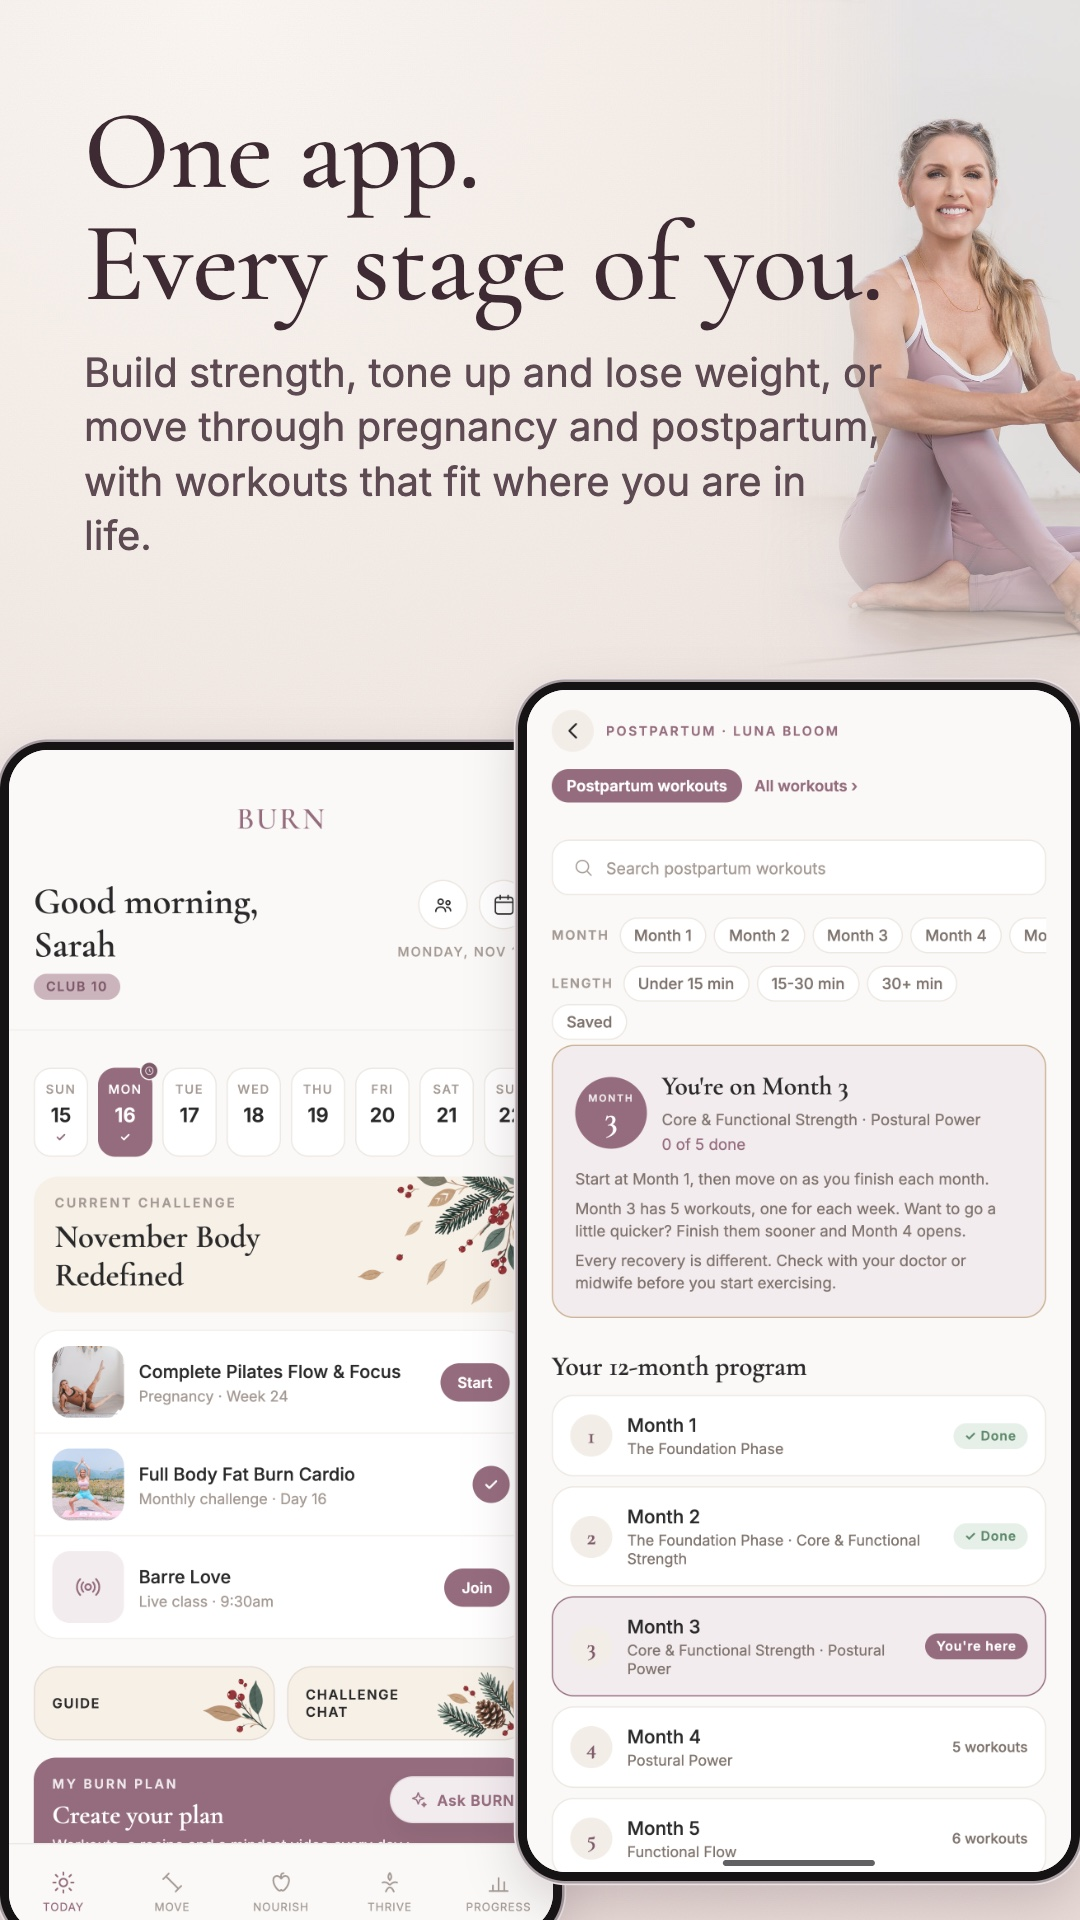
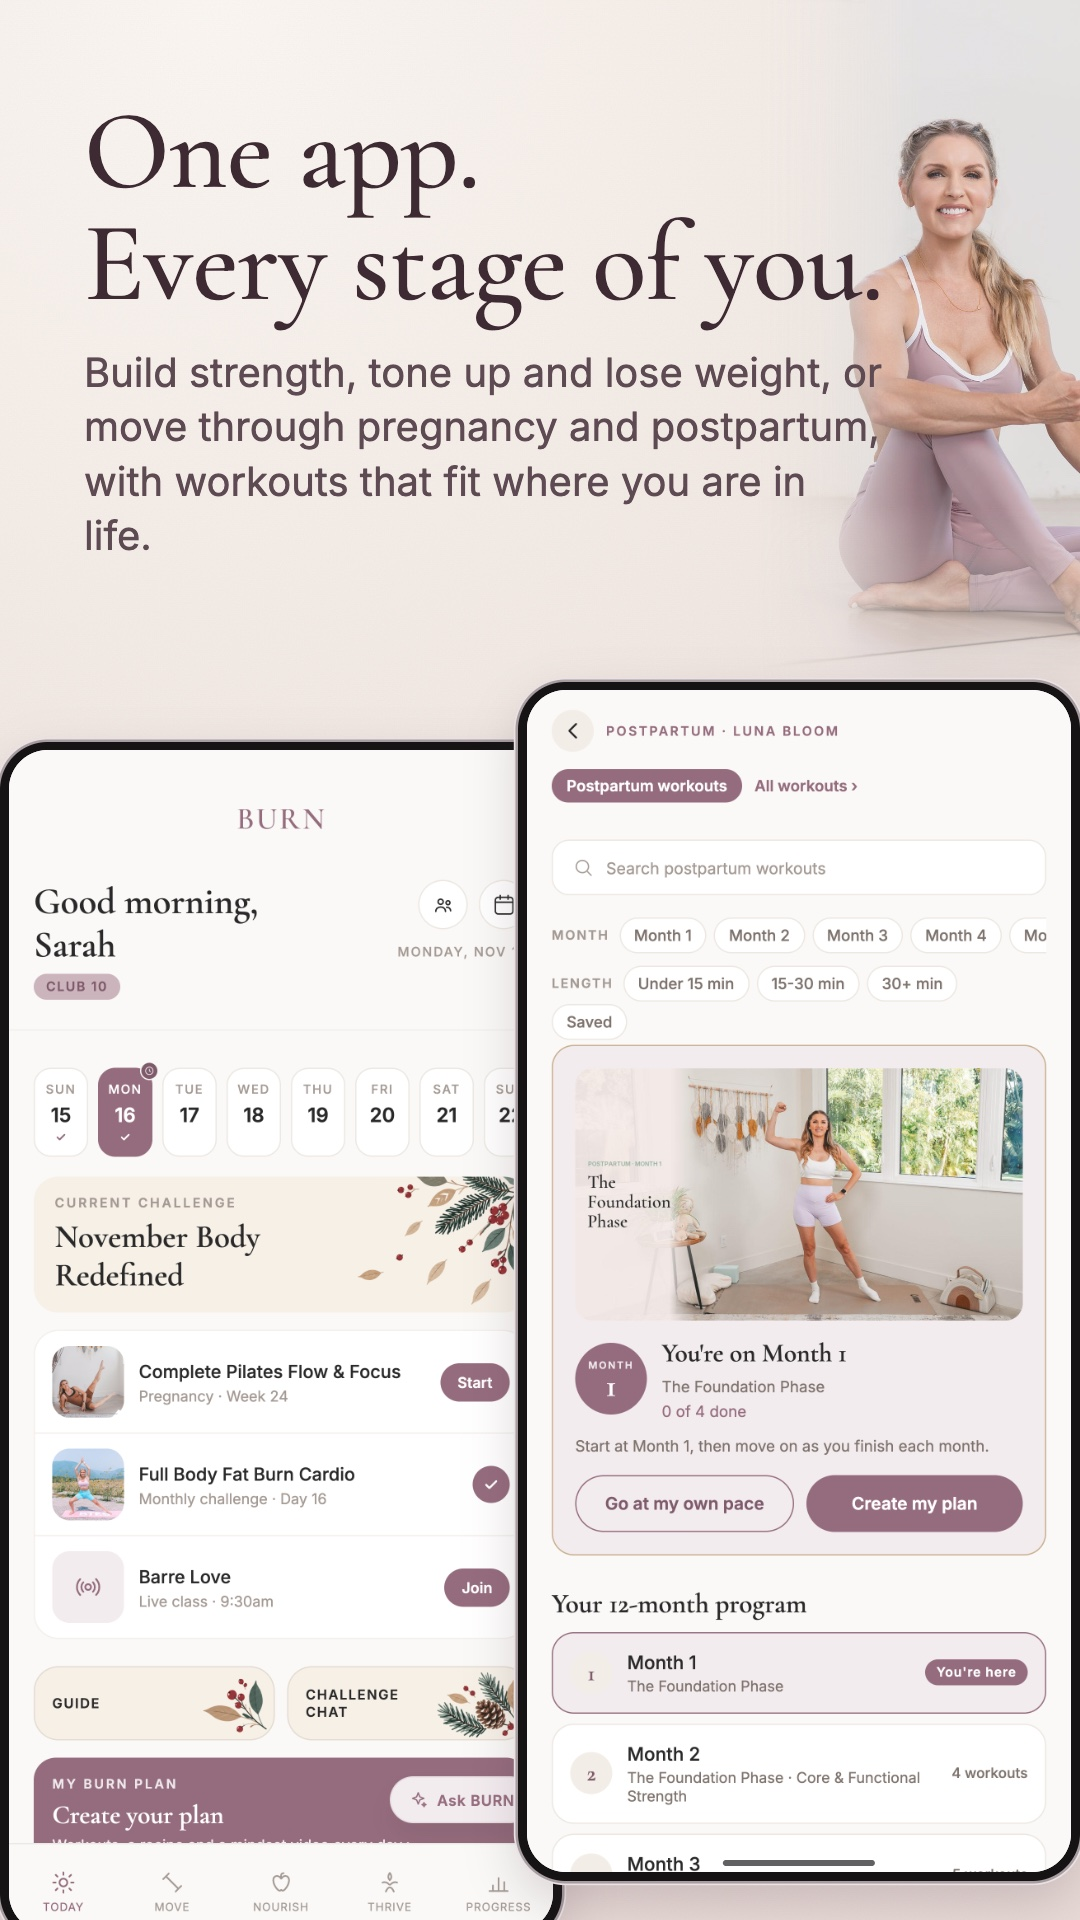
BRN-352 v15 update: slide 3 postpartum = Preview 431 Month 1 covers; her v14 notes (plan back in front, smaller class cards + top photo, Club 10 top-right, dietary needs line, smaller Ask BURN card) slide 3 postpartum = Preview 431 Month 1 covers

Changed region(s): [[0.5194, 0.5312, 0.9472, 1.0], [0.8556, 0.8438, 0.9778, 0.9688], [0.7944, 0.9062, 0.8556, 0.9375]]

diff --git a/play-listing/index.html b/play-listing/index.html
@@ -223,7 +223,7 @@ https://burn-app-legal.netlify.app/support.html</div>
 <h2>At store size</h2><div style="display:flex;gap:6px;overflow-x:auto"><img src="v15/play/01-hero.jpg?v=15" style="height:190px;border-radius:8px;box-shadow:0 1px 4px rgba(0,0,0,.15)" alt=""><img src="v15/play/02-challenge.jpg?v=15" style="height:190px;border-radius:8px;box-shadow:0 1px 4px rgba(0,0,0,.15)" alt=""><img src="v15/play/03-stages.jpg?v=15" style="height:190px;border-radius:8px;box-shadow:0 1px 4px rgba(0,0,0,.15)" alt=""><img src="v15/play/04-plan.jpg?v=15" style="height:190px;border-radius:8px;box-shadow:0 1px 4px rgba(0,0,0,.15)" alt=""><img src="v15/play/05-live.jpg?v=15" style="height:190px;border-radius:8px;box-shadow:0 1px 4px rgba(0,0,0,.15)" alt=""><img src="v15/play/06-nourish.jpg?v=15" style="height:190px;border-radius:8px;box-shadow:0 1px 4px rgba(0,0,0,.15)" alt=""><img src="v15/play/07-thrive.jpg?v=15" style="height:190px;border-radius:8px;box-shadow:0 1px 4px rgba(0,0,0,.15)" alt=""><img src="v15/play/08-progress.jpg?v=15" style="height:190px;border-radius:8px;box-shadow:0 1px 4px rgba(0,0,0,.15)" alt=""></div><p class="note">Google Play listing: the carousel, about 190 px tall on a phone.</p><div style="display:flex;gap:6px;align-items:flex-start;flex-wrap:wrap"><img src="v15/iphone/01-hero.jpg?v=15" style="width:104px;border-radius:10px;box-shadow:0 1px 4px rgba(0,0,0,.15)" alt=""><img src="v15/iphone/02-challenge.jpg?v=15" style="width:104px;border-radius:10px;box-shadow:0 1px 4px rgba(0,0,0,.15)" alt=""><img src="v15/iphone/03-stages.jpg?v=15" style="width:104px;border-radius:10px;box-shadow:0 1px 4px rgba(0,0,0,.15)" alt=""></div><p class="note">App Store search result: the first three, about 104 px wide.</p>
 
 <h2>Your v14 notes, item by item</h2>
-<table><tr><th>You said</th><th>Now</th></tr><tr><td>Your fitness, your way: put back the plan in front</td><td>✅ Your finished plan (&quot;Your Tone Plan&quot;, week by week) is back in front. The Library is behind and the photo of you at the top stays.</td></tr><tr><td>Let&#x27;s work out together: smaller &quot;24 people&quot; card + what it&#x27;s like in the class with the emojis + a top photo</td><td>✅ The &quot;24 people are working out with you&quot; card is smaller, and a second small card shows the live class with members&#x27; cheers and emojis. Your photo is at the top like the other slides.</td></tr><tr><td>Look what you did: Club 10 in the top-right corner</td><td>✅ The Club 10 badge card now sits in the top-right corner.</td></tr><tr><td>Nourish: a more professional filter line</td><td>✅ &quot;Find recipes that work for you, filter by your dietary needs and save your favourites.&quot; This matches your approved &quot;Recipes for every dietary need&quot;. The food tracking line and the açaí photo stay.</td></tr><tr><td>Ask BURN: the pop-up sits over the top</td><td>✅ Smaller and moved down, so the start screen shows.</td></tr><tr><td>Your people, your community</td><td>No change.</td></tr><tr><td>One app. Every stage of you: the new Month 1 postpartum covers</td><td>⏳ Agent 4&#x27;s covers are held, waiting for your final edits. The current postpartum screen stays until they ship.</td></tr></table>
+<table><tr><th>You said</th><th>Now</th></tr><tr><td>Your fitness, your way: put back the plan in front</td><td>✅ Your finished plan (&quot;Your Tone Plan&quot;, week by week) is back in front. The Library is behind and the photo of you at the top stays.</td></tr><tr><td>Let&#x27;s work out together: smaller &quot;24 people&quot; card + what it&#x27;s like in the class with the emojis + a top photo</td><td>✅ The &quot;24 people are working out with you&quot; card is smaller, and a second small card shows the live class with members&#x27; cheers and emojis. Your photo is at the top like the other slides.</td></tr><tr><td>Look what you did: Club 10 in the top-right corner</td><td>✅ The Club 10 badge card now sits in the top-right corner.</td></tr><tr><td>Nourish: a more professional filter line</td><td>✅ &quot;Find recipes that work for you, filter by your dietary needs and save your favourites.&quot; This matches your approved &quot;Recipes for every dietary need&quot;. The food tracking line and the açaí photo stay.</td></tr><tr><td>Ask BURN: the pop-up sits over the top</td><td>✅ Smaller and moved down, so the start screen shows.</td></tr><tr><td>Your people, your community</td><td>No change.</td></tr><tr><td>One app. Every stage of you: the new Month 1 postpartum covers</td><td>✅ Recaptured from Preview 431, which has your new Month 1 postpartum covers (your photo, The Foundation Phase).</td></tr></table>
 <h2>Your headlines doc, item by item</h2>
 <table><tr><th>#</th><th>Your doc</th><th></th><th>What I did</th></tr><tr><td>1</td><td>01 · BURN BY REBECCA LOUISE — &quot;Move. Nourish. Thrive. Through every stage of life.&quot;</td><td style="text-align:center">✅</td><td>Word for word. Apple + Google.</td></tr><tr><td>2</td><td>02 · A NEW CHALLENGE EVERY MONTH — &quot;Your daily workouts, a challenge guide and a calendar to keep you going. Just press play and show up for yourself.&quot;</td><td style="text-align:center">✅</td><td>Word for word. Apple + Google.</td></tr><tr><td>3</td><td>03 · ONE APP. EVERY STAGE OF YOU. — &quot;Build strength, move through pregnancy and follow your postpartum journey, with workouts that fit where you are in life.&quot;</td><td style="text-align:center">✅</td><td>Updated to your 29 Oct line (general fitness and goals). The postpartum screen is a placeholder until your new screenshot arrives.</td></tr><tr><td>4</td><td>04 · YOUR FITNESS. YOUR WAY. — &quot;Build your own plan around your goals and schedule. Choose your workouts, create playlists and train with your cycle.&quot;</td><td style="text-align:center">✅</td><td>Word for word. Your finished plan in front, the Library behind, and you exercising at the top.</td></tr><tr><td>5</td><td>05 · LET’S WORK OUT TOGETHER. — &quot;Book live classes, schedule your workouts and make time to move with me, wherever you are.&quot;</td><td style="text-align:center">✅</td><td>Word for word, plus your 29 Oct line &quot;You can also create challenges with your friends.&quot;</td></tr><tr><td>6</td><td>06 · NOURISH YOUR BODY. — &quot;Find recipes that work for you, filter by how you eat and save your favourites. Nutrition tools are available to eligible customers.&quot;</td><td style="text-align:center">✅</td><td>Your 29 Oct wording: &quot;filter by your dietary needs&quot; and food tracking for eligible customers.</td></tr><tr><td>7</td><td>07 · A LITTLE MORE YOU TIME. — &quot;Meditations, mindset videos, Daily Read and a gratitude journal to help you take care of more than just your workouts.&quot;</td><td style="text-align:center">✅</td><td>Plus pregnancy and postpartum care resources (your 29 Oct note).</td></tr><tr><td>8</td><td>08 · YOUR PEOPLE. YOUR COMMUNITY. — &quot;Connect with other members, create challenges with friends, share your wins and keep each other going.&quot; (Apple only)</td><td style="text-align:center">✅</td><td>Word for word. Apple only. The feed has your posts and photos in front, with a friend challenge behind.</td></tr><tr><td>9</td><td>09 · LOOK WHAT YOU DID. — &quot;See your completed workouts, build streaks and celebrate achievements. With Complete, earn points to use in the rewards store.&quot;</td><td style="text-align:center">✅</td><td>Word for word. The points store in front, your badges behind, plus a Club 10 badge card.</td></tr><tr><td>10</td><td>10 · ASK BURN. KEEP MOVING. — &quot;Need a workout idea or help with your plan? Ask BURN AI for guidance that fits your goals and your day.&quot; (Apple only)</td><td style="text-align:center">✅</td><td>Word for word. Apple only.</td></tr><tr><td>11</td><td>Android: screens 1–7 and 9, in that order</td><td style="text-align:center">✅</td><td>Google Play 8 = 1, 2, 3, 4, 5, 6, 7, 9.</td></tr><tr><td>12</td><td>Apple uses all 10</td><td style="text-align:center">✅</td><td></td></tr><tr><td>13</td><td>Keep the supporting lines short and readable at App Store thumbnail size</td><td style="text-align:center">✅</td><td>Your lines word for word, in one size on every slide, with clear space before the phone. See &quot;At store size&quot;.</td></tr><tr><td>14</td><td>Plus and Complete features shown with the correct membership experience</td><td style="text-align:center">✅</td><td>The screens are a BURN Complete member&#x27;s. The copy names Complete for points.</td></tr><tr><td>15</td><td>Only mention friend-created challenges, nutrition tools, live classes and AI once they are active and working in the published version</td><td style="text-align:center">⚠</td><td>All four are in the app (Preview 419 / TestFlight 14.155) and Ask BURN is on in the live build. Please confirm Google Play version 7 is published before uploading. Friend-created challenges are on slide 8, which is Apple only.</td></tr><tr><td>16</td><td>Do not show points or rewards as Plus features</td><td style="text-align:center">✅</td><td>Slide 9 says &quot;With Complete, earn points&quot;.</td></tr><tr><td>17</td><td>Keep app screen imagery accurate to the respective tier</td><td style="text-align:center">✅</td><td></td></tr></table>
 
